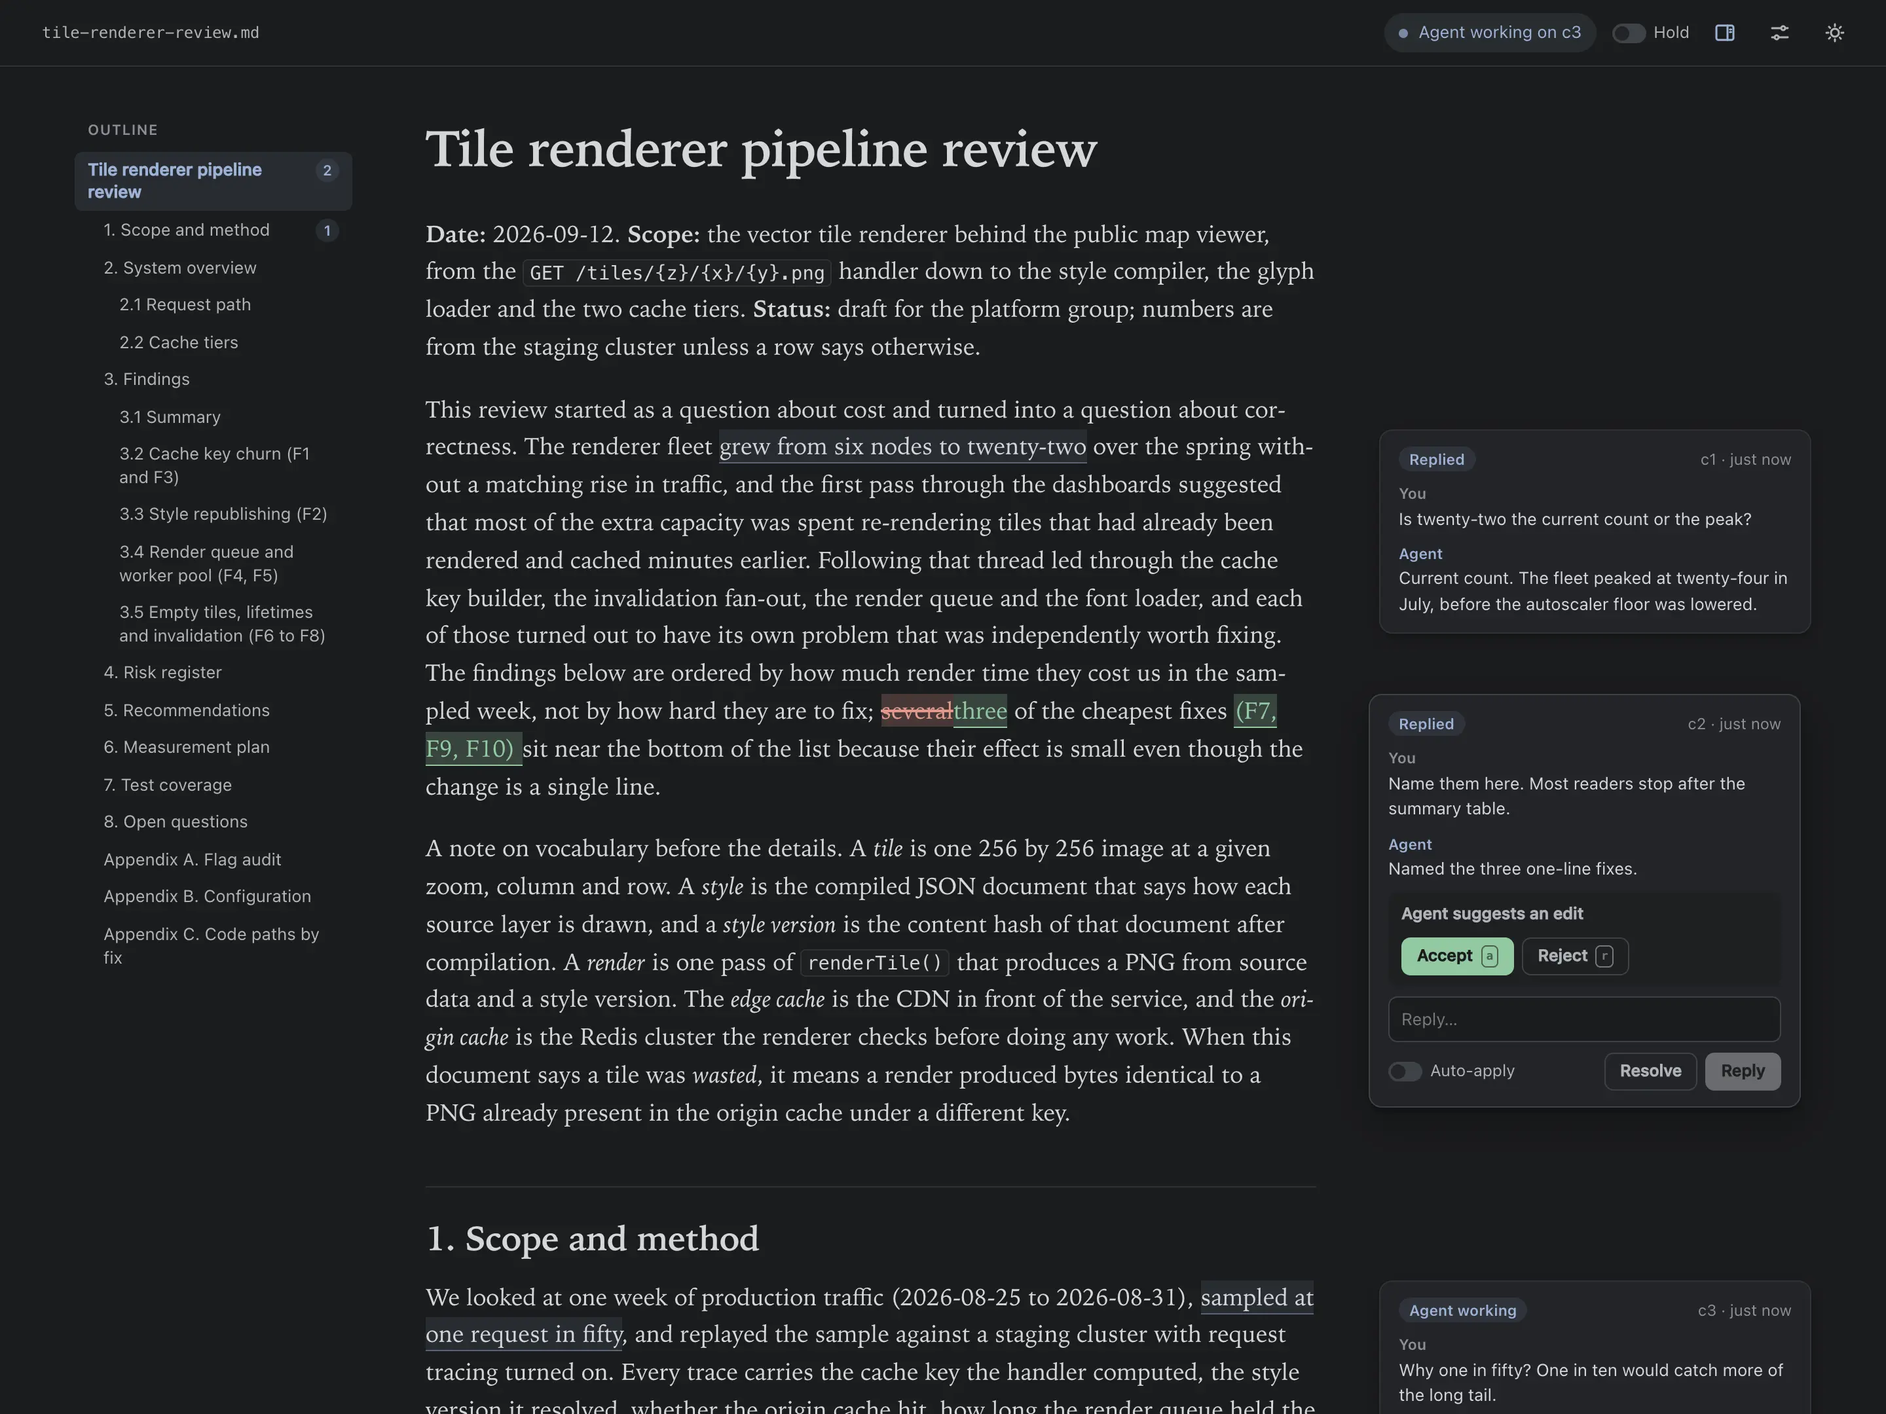
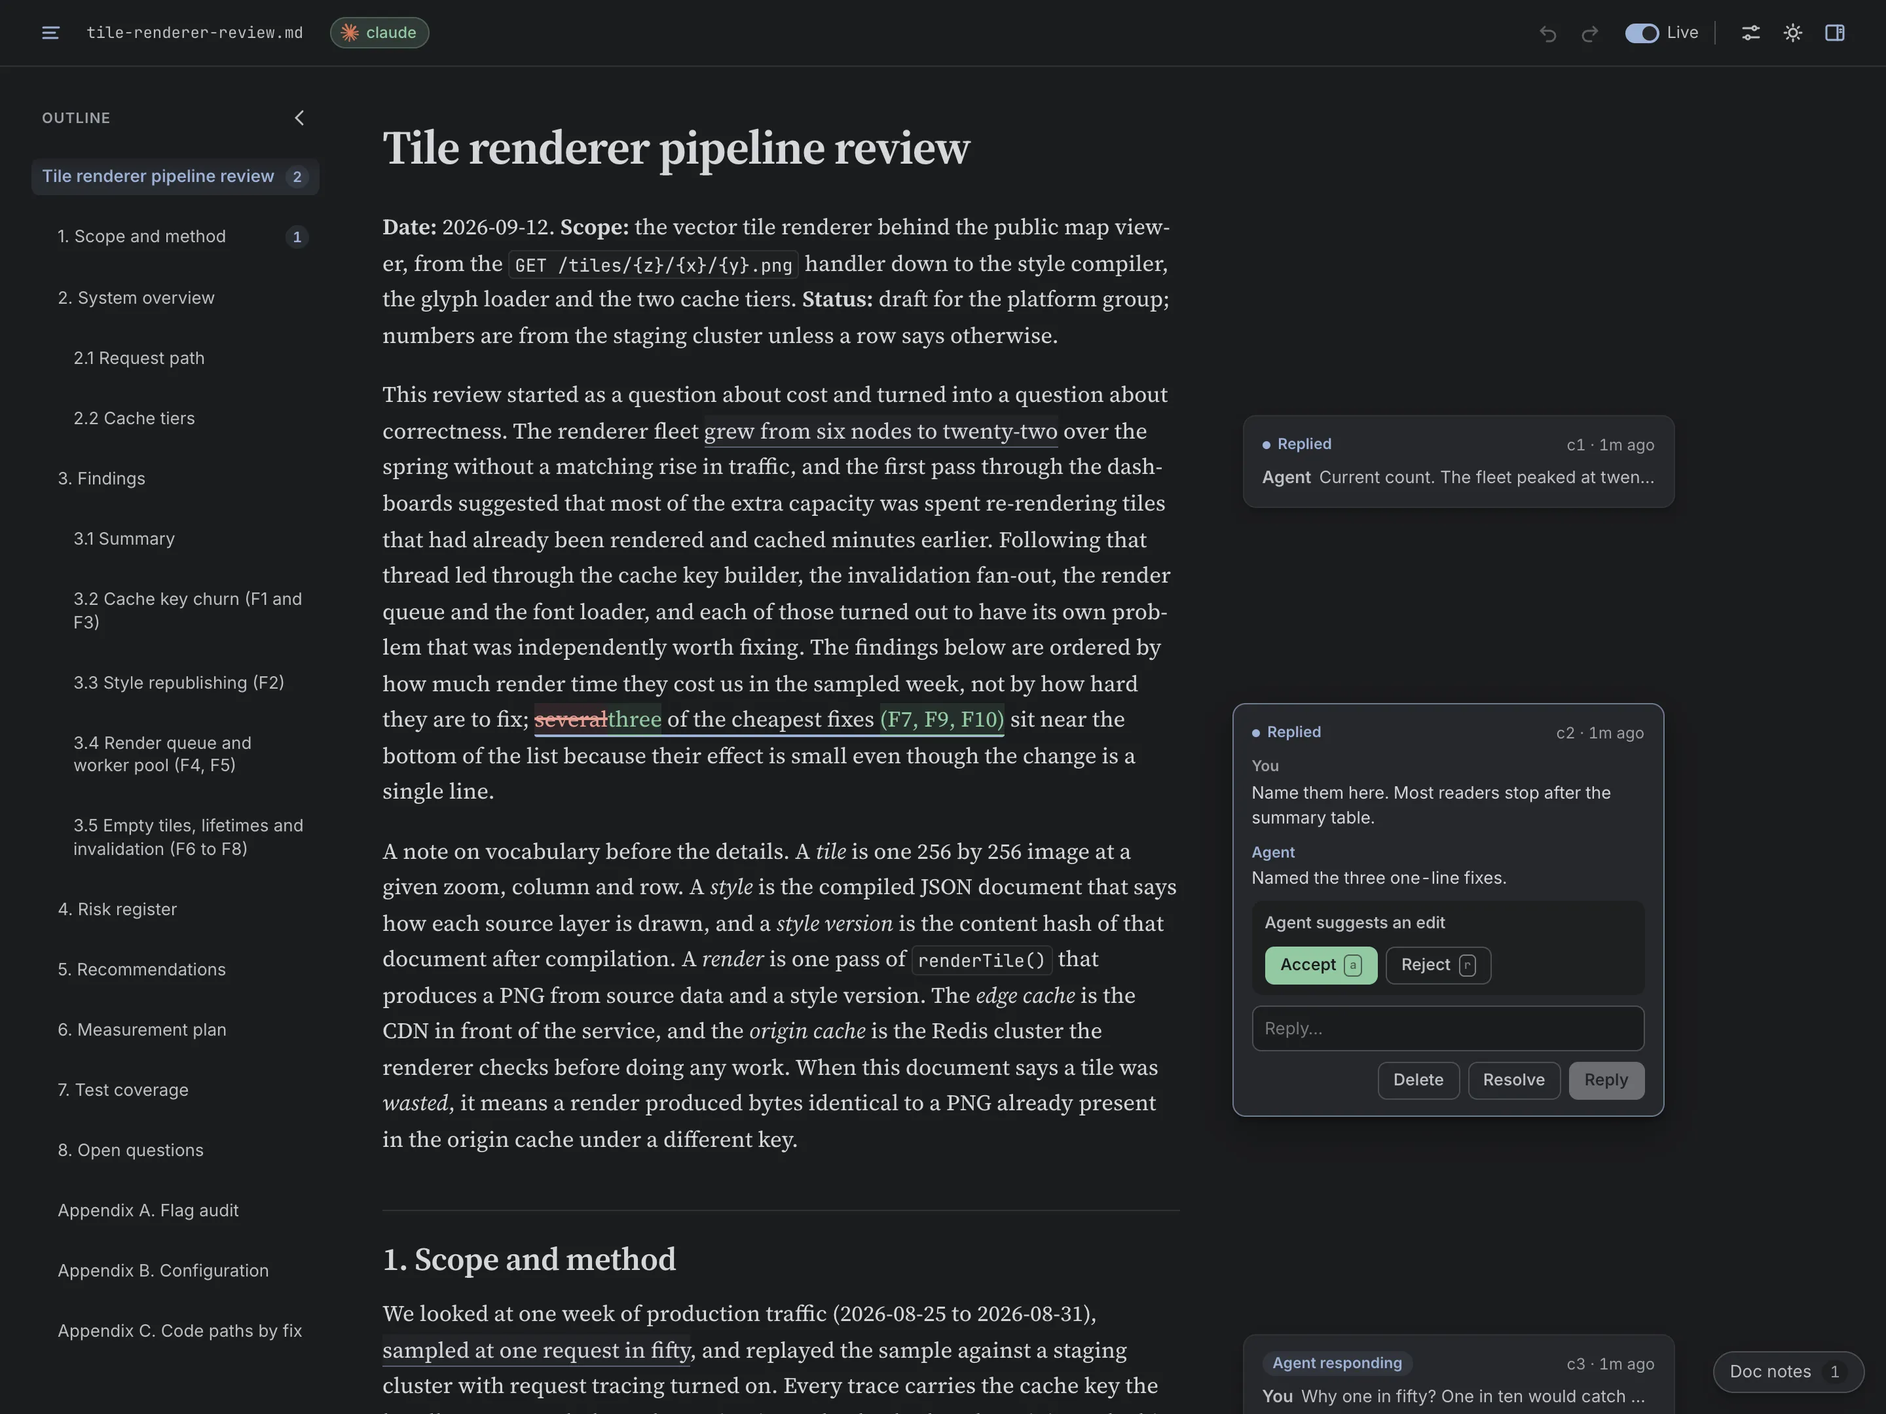
Describe v0.2.0 in the README and plan
- README: double click to edit, folded cards and their states, doc notes and `n`, undo and redo, Live, the single "Auto-apply edits" setting, "Edited by you" cards, page margins, the readable page URL and the Homebrew install
- README: a "Who is answering" section on `--as`, `MARGIN_AGENT` and client detection, the agent chip's colours and the tab's status dot; agent-help at 1,479 B; a trademarks notice
- Light and dark screenshots recaptured from the public sample
- PLAN.md: watch debounce 200 ms and the agent-help ceiling at 1,500 B
- CLAUDE.md documents `bun run dev`; docs/releasing.md notes that the Homebrew tap picks up each release by itself

Part of #11
Part of #12

Assisted-by: Claude Code (Opus 5.5)

diff --git a/README.md b/README.md
@@ -6,7 +6,7 @@
 
 Review AI-written markdown like a Google Doc.
 
-margin opens a markdown file in your browser as a document with a comment margin. Select text to comment on it or to suggest a change, and click a paragraph to edit it in place. The agent that wrote the file answers through a small CLI: it replies in the thread and proposes edits that appear as inline diffs for you to accept or reject. The file stays plain markdown in your repo, with no ids or markers added, and the comments live in a sidecar beside it.
+margin opens a markdown file in your browser as a document with a comment margin. Select text to comment on it or to suggest a change, and double click a paragraph to edit it in place. The agent that wrote the file answers through a small CLI: it replies in the thread and proposes edits that appear as inline diffs for you to accept or reject. The file stays plain markdown in your repo, with no ids or markers added, and the comments live in a sidecar beside it.
 
 It is made for the long documents agents produce, such as plans and reviews, where a terminal diff or a chat window is the wrong place to read them. Any agent that can run shell commands can take part. Claude Code is tested end to end.
 
@@ -21,6 +21,8 @@ curl -fsSL https://bun.sh/install | bash   # if you don't have Bun
 bun add -g margin-md
 ```
 
+With Homebrew, `brew install ariboren/tap/margin` installs margin and Bun together.
+
 To try it once without installing, run `bunx margin-md path/to/doc.md`. Agents call `margin` directly, so install it globally before connecting one.
 
 ## Quick start
@@ -34,19 +36,23 @@ Tell the agent the doc is open in margin. Select a sentence, press `c`, type a q
 
 ## Reviewing
 
-**Comments and suggestions.** Select text and press `c` to comment or `s` to suggest a replacement. The same two buttons appear above the selection. Threads sit in the margin beside the text they quote and show their state: draft, open, agent working, replied or resolved. A thread the agent picked up but hasn't answered in 10 minutes is marked stalled. If the quoted text is deleted the thread is marked detached, and it reattaches when the text comes back.
+**Comments and suggestions.** Select text and press `c` to comment or `s` to suggest a replacement. The same two buttons appear above the selection. Threads sit in the margin beside the text they quote, folded to a header with their state (draft, open, agent notified, agent responding, replied or resolved) until you click one open. A thread the agent picked up but hasn't answered in 10 minutes is marked stalled. If the quoted text is deleted the thread is marked detached, and it reattaches when the text comes back. After a rewrite, "Resolve N detached threads" in the top bar clears them in one step.
+
+**Doc notes.** For a comment on the doc as a whole, open "Doc notes" at the bottom right or press `n`. Notes read like a chat with the agent and stay out of the margin. The agent gets them alongside your other threads and answers with a reply or an edit.
 
 **Agent suggestions.** A proposed edit shows as an inline diff in the text. Accept writes it to the file and resolves the thread. Reject with a note sends the note back to the agent; reject without one resolves the thread.
 
-**Editing.** Click a paragraph to edit its markdown in place. Click away or press `⌘↵` to save, or `Esc` to cancel. Lists and tables are edited one item or cell at a time, and "Edit as source" opens the whole list or table. A save rewrites only that block's bytes, so `git diff` shows exactly what you changed. The agent sees your edits the next time it reads the doc. "Ask agent to follow through" turns an edit into a thread, for when the rest of the doc should change to match.
+**Editing.** Double click a paragraph to edit its markdown in place, or set "Edit blocks with" in settings to single click. An Editing chip at the foot of the page shows the keys: click away or press `⌘↵` to save, or `Esc` to cancel. Lists and tables are edited one item or cell at a time, and "Edit as source" opens the whole list or table. A save rewrites only that block's bytes, so `git diff` shows exactly what you changed. The agent gets your edits with your next comment or reply. With "Show resolved threads and edits" on, each save also shows in the margin as an "Edited by you" card, and "Add a note" on it turns the edit into a thread, for when the rest of the doc should change to match.
 
-**Hold.** Switch on Hold in the top bar and new comments stay as drafts until you press "Send all".
+**Undo.** `⌘Z` and `⇧⌘Z`, or the arrows in the top bar, undo and redo your own edits and thread actions. A reply or resolve the agent has already read stays put.
 
-**Agent edits.** By default the agent suggests and you decide. "Auto-apply agent edits" in settings applies its edits for the rest of the session, and each thread has its own Auto-apply switch. "Suggestions only" stops the agent from writing to the file at all. An applied edit is labelled "Changed by agent" and has a Revert button.
+**Live.** Comments reach the agent as you post them. Switch off Live in the top bar and new comments stay as drafts until you press "Send all".
 
-**Changes from elsewhere.** Edits from your editor, from git or from the agent show up in the tab, and comments re-anchor to the new text. If the block you're editing changes underneath you, a bar offers "Keep mine" or "Take theirs".
+**Agent edits.** By default the agent suggests and you decide, unless your comment asks it to make the change. Turn on "Auto-apply edits" in settings and every agent edit on the doc lands in the file without waiting for you. An applied edit is labelled "Changed by agent" and has a Revert button.
 
-**View.** The outline on the left counts open threads per section. The top bar hides the comment margin and switches between light and dark. Settings has text size and "Show resolved threads".
+**Changes from elsewhere.** Edits from your editor, from git or from the agent show up in the tab, and comments re-anchor to the new text. If the block you're editing changes underneath you, a bar at the foot of the page offers "Keep mine" or "Take theirs".
+
+**View.** The outline on the left counts open threads per section. The top bar hides the comment margin and switches between light and dark. Settings sets the text size and the page margins, which apply at any window width, and "Show resolved threads and edits" keeps finished threads and your edit cards in the margin.
 
 ![margin in the dark theme](docs/images/margin-dark.webp)
 
@@ -58,12 +64,14 @@ Tell the agent the doc is open in margin. Select a sentence, press `c`, type a q
 | `s`                 | Suggest a replacement for the selection        |
 | `j` / `k`           | Next / previous thread                         |
 | `a` / `r`           | Accept / reject the active thread's suggestion |
+| `n`                 | Open or close doc notes                        |
 | `⌘↵` (`Ctrl+Enter`) | Send a comment or reply, save an edit          |
+| `⌘Z` / `⇧⌘Z`        | Undo / redo your own edits and thread actions  |
 | `Esc`               | Cancel, close a panel, or deselect the thread  |
 
 ## Connecting an agent
 
-The agent works through the `margin` CLI and nothing else. It never reads the sidecar and never rewrites the whole file. `margin agent-help` prints the complete instructions in 1,345 bytes; the Claude Code skill and the AGENTS.md snippet are generated from that text.
+The agent works through the `margin` CLI and nothing else. It never reads the sidecar and never rewrites the whole file. `margin agent-help` prints the complete instructions in 1,479 bytes; the Claude Code skill and the AGENTS.md snippet are generated from that text. They tell the agent to answer in the doc, as replies and suggestions, and to post in chat only when you've asked for updates.
 
 **Claude Code.** `margin setup` installs the skill in the current project, `margin setup --user` installs it for all your projects. Run it again after upgrading margin. It won't overwrite a skill you've edited unless you pass `--force`.
 
@@ -73,6 +81,15 @@ margin setup --user    # ~/.claude/skills/margin/
 ```
 
 **Other agents.** `margin setup` also prints a snippet to paste into your `AGENTS.md`, which margin never edits itself. The same text is in [AGENTS.snippet.md](AGENTS.snippet.md). Any agent that can run shell commands can follow it, but only Claude Code has been tested end to end.
+
+**Who is answering.** The page shows the connected agent beside the filename, with its name on every reply. The name comes from `--as <name>` on any margin command, else the `MARGIN_AGENT` environment variable, else the client margin detects (Claude Code, Codex or Cursor, from the markers they set in their shells). Several agents on one doc each appear under their own name.
+
+```sh
+margin watch review.md --as foreman
+MARGIN_AGENT=reviewer margin pending review.md
+```
+
+The chip is green while an agent is watching, amber when none is or a reply has stalled, and red if the page loses the daemon. With no agent connected, click it to copy a message that tells your agent to start watching the doc. The browser tab carries the same state as a coloured dot, which turns blue when a reply lands while you're in another tab, and the title counts them, as in "(2) review.md · margin".
 
 **The loop.** Claude Code runs `margin watch` under its Monitor tool. It prints one line per batch of new comments. Agents without Monitor run `margin pending <doc> --wait` instead, which blocks until the next batch arrives.
 
@@ -107,7 +124,7 @@ Comments are stored in a `.margin/` directory next to the doc: `.margin/<doc>.js
 .margin/
 ```
 
-One background daemon serves every doc you open, one doc per tab. `margin <doc>` starts it or reuses the one already running, opens the tab, prints its URL and exits. The daemon exits by itself after 30 minutes with no tabs open. Inside Orca the tab opens in Orca's built-in browser; anywhere else it opens in your default browser.
+One background daemon serves every doc you open, one doc per tab. `margin <doc>` starts it or reuses the one already running, opens the tab at a readable address such as `http://127.0.0.1:<port>/d/212a0553/review.md`, prints its URL and exits. The daemon exits by itself after 30 minutes with no tabs open. Inside Orca the tab opens in Orca's built-in browser; anywhere else it opens in your default browser.
 
 ```sh
 margin status    # daemon pid and port, then each open doc and its tab count
@@ -125,7 +142,7 @@ Output to the agent is kept small. Bytes of CLI stdout, measured by `bun run bud
 | `margin watch`, per batch                       | 20                       |
 | `margin pending`, per thread (median)           | 310                      |
 | `reply` / `suggest` / `resolve` acknowledgement | 16                       |
-| `margin agent-help`                             | 1,345                    |
+| `margin agent-help`                             | 1,479                    |
 | 10 threads, full loop, all CLI output           | 4,755 (6.7% of the file) |
 
 One real Claude Code session (Opus 5.5) resolved 12 threads on a 165,788-byte doc at about 2 requests and $0.05 per thread, at API prices.
@@ -137,7 +154,7 @@ CI runs on every push to `main` and every pull request, and any failure fails th
 - Byte-exact saves: round-trip tests on BOM, CRLF, a missing trailing newline, code fences and frontmatter, plus [fast-check](https://fast-check.dev) property tests that generate random edits and shrink any failure to a minimal case.
 - Concurrency: 20 processes append to one comment log, take one lock and edit one doc at the same time without losing an event or interleaving a write.
 - The agent loop end to end: a real daemon, a scripted user on its HTTP protocol and the agent answering through the CLI, checked down to the bytes in the file.
-- A line-coverage floor of 86% on `src/`.
+- Line-coverage floors on `src/` per layer: 99% core, 94% CLI and 89% server. The browser client is reported without one; browser checks and end-to-end tests cover it.
 - A byte ceiling on every agent-facing command, from [`budget.json`](budget.json).
 - The npm tarball packed, installed in a clean directory and run.
 - Dependencies and actions updated weekly by Dependabot, actions pinned to commit SHAs, and [zizmor](https://docs.zizmor.sh) auditing the workflow on every run.
@@ -151,3 +168,7 @@ The daemon listens on 127.0.0.1 only and requires a random per-daemon token. Doc
 ## Licence
 
 MIT. See [LICENSE](LICENSE).
+
+## Trademarks
+
+Claude is a trademark of Anthropic, PBC. OpenAI and Codex are trademarks of OpenAI. Cursor is a trademark of Anysphere, Inc. margin is not affiliated with or endorsed by any of them.

diff --git a/PLAN.md b/PLAN.md
@@ -15,7 +15,7 @@ Each table row is one implementer. No code exists yet.
 From the interview:
 
 - **Agent edits:** `margin suggest` by default. Direct apply on request, two routes: UI toggle (per thread, or whole session) and agent flag `--apply`. `--apply` is allowed by default; a per-doc "suggestions only" switch turns it off, and the ack then says it was downgraded. Applied edits show "changed by agent" with revert.
-- **Dispatch:** immediate by default, watcher debounces 3 s. Plus hold mode: comments stay drafts until "send all".
+- **Dispatch:** immediate by default, watcher debounces 200 ms (trailing; Hold mode batches on purpose). Plus hold mode: comments stay drafts until "send all".
 - **Lifecycle:** `margin doc.md` spawns or reuses one detached daemon, opens tab, prints URL, exits. One daemon, many docs, one doc per tab. Idle exit, `margin stop`. Answers brief Q6.
 - **Runtime:** Bun required. Compiled binaries are first follow-up.
 - **Sidecar:** hidden `.margin/` beside the doc.
@@ -44,7 +44,7 @@ By this plan (veto any):
 - **Edit feed is word-diff hunks, not unified diff.** Sample paragraphs are single lines, mean 468 chars, max 1,606. A unified hunk repeats the paragraph twice. Format: heading path, line, changed words with 4 words of context.
 - **`pending` context is capped:** quote up to 600 B, then 240 B each side, clipped to the unit. Table: the cell, its column header, the row's first cell. Sample table rows average 676 chars; a whole table would cost thousands of tokens. `margin show <id>` returns the full unit on demand.
 - **Conflict model (brief Q4):** server watches the doc's directory (editors rename on save). Own writes ignored by hash. Outside change: reparse, align, re-anchor, push to tabs. Open editor whose unit changed: bar with keep mine / take theirs, draft also kept in localStorage. Saves are compare-and-swap on the unit's `before` text, so unrelated changes elsewhere never block a save. File missing: banner, state kept.
-- **Agent teaching (brief Q5):** `margin agent-help` is canonical, at most 1,400 B. Claude Code skill and `AGENTS.md` snippet are generated from it. `margin doc.md` prints it when stdout is not a TTY.
+- **Agent teaching (brief Q5):** `margin agent-help` is canonical, at most 1,500 B. Claude Code skill and `AGENTS.md` snippet are generated from it. `margin doc.md` prints it when stdout is not a TTY.
 - **Security:** bind 127.0.0.1, check Host and Origin, per-daemon token, serve registered docs only, raw HTML in markdown rendered as text, images only from the doc's directory.
 
 ## Agent contract
@@ -74,7 +74,7 @@ Baseline: one read of the sample = 165,788 B, about 41k tokens.
 | `pending`, per thread, excluding messages   | median 700 B, max 1,300 B         |
 | `pending`, per user edit                    | 200 B + 60 B per extra hunk + changed words |
 | `reply` / `resolve` / `suggest` ack         | 24 B                              |
-| `agent-help`                                | 1,400 B                           |
+| `agent-help`                                | 1,500 B                           |
 | 10 seeded threads, full loop, all CLI output | 8 KB total, under 5% of the file |
 
 Turns matter more than bytes: each agent wake re-reads its context. Target 1 wake per batch. Per batch: `pending` (chained with `show` where needed) in one call, then one chained shell call for all replies.

diff --git a/docs/releasing.md b/docs/releasing.md
@@ -47,6 +47,8 @@ Do these in order. Trusted publishing needs the package to exist on npm, and pro
 
 A version with a prerelease part, such as `0.2.0-beta.1`, publishes under the `next` dist-tag instead of `latest`.
 
+The [Homebrew tap](https://github.com/ariboren/homebrew-tap) picks up each new `latest` release by itself: a daily workflow there updates the formula once the npm version and its tag both exist.
+
 ## Sources
 
 - [npm trusted publishers](https://docs.npmjs.com/trusted-publishers): npm 11.5.1 or later, `id-token: write`, provenance is automatic.

diff --git a/CLAUDE.md b/CLAUDE.md
@@ -30,6 +30,8 @@ foreman-only.
 - `bun run typecheck`, `bun test`, `bun run build`, `bun run mockup`, `bun run budget`
 - `bun run link-sample <path>` (or `MARGIN_SAMPLE=<path>`): copies the private sample to
   `fixtures/private/sample.md`.
+- `bun run dev`: daemon from this checkout on the default state dir; rebuilds the client and
+  reloads tabs on `src/client`/`src/core` changes, restarts the daemon on `src/server`/`src/core`.
 - `bunx prettier --write <files>`: scoped formatting only.
 
 ## Rules
